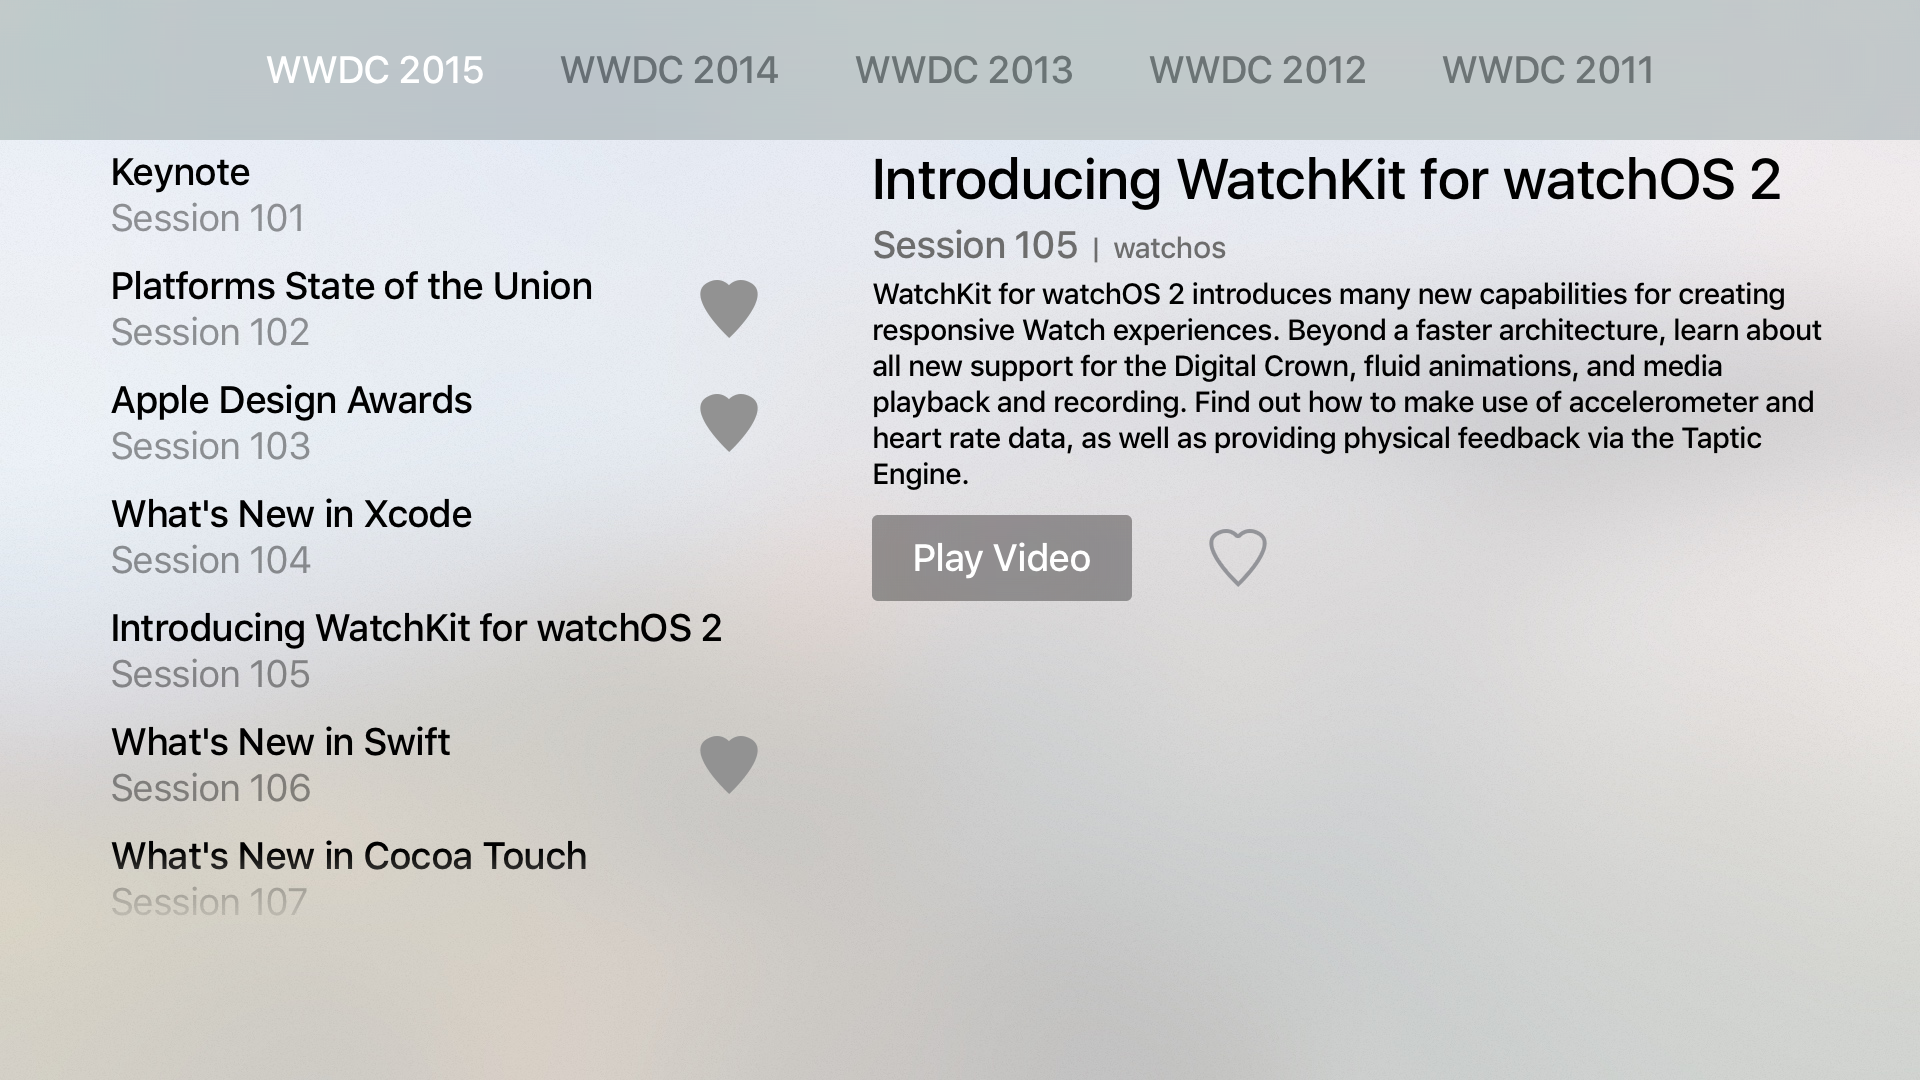
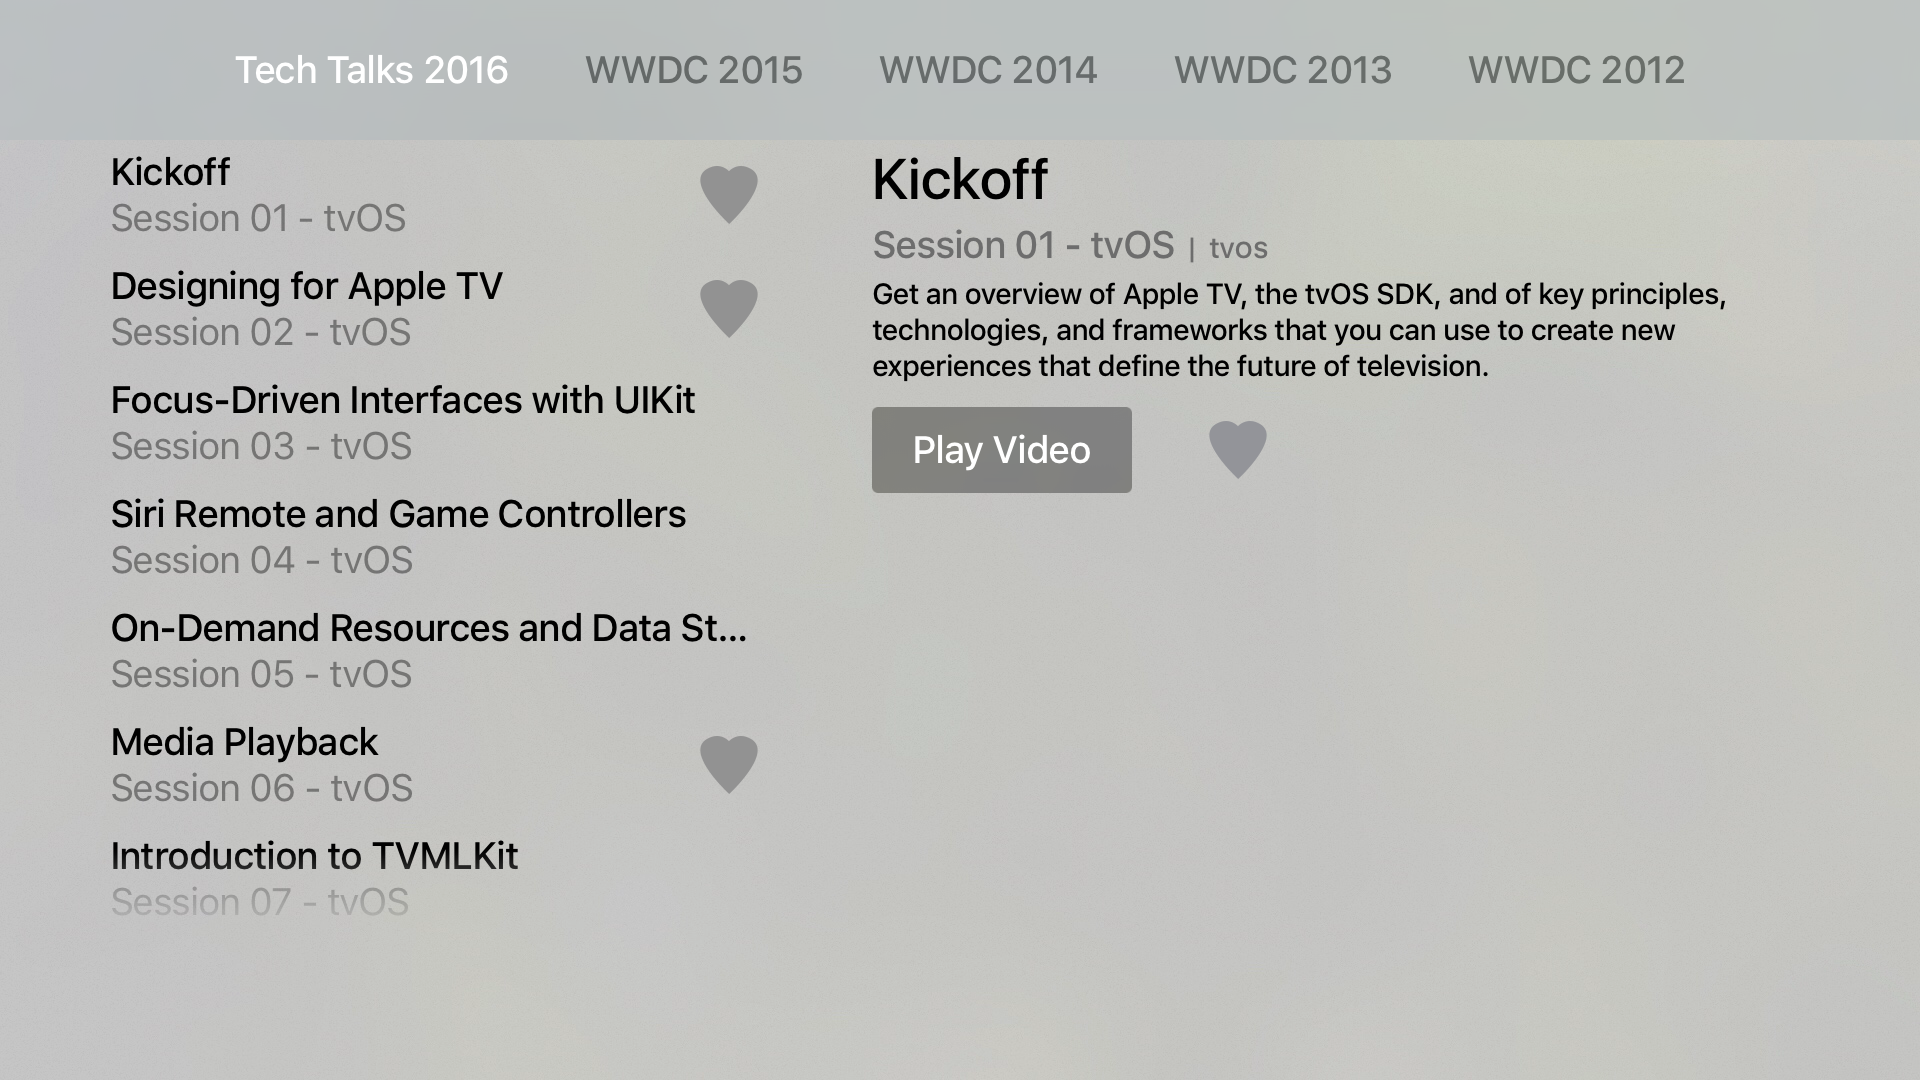
Added Tech Talk 2016 video urls and updated screenshots.

diff --git a/README.md b/README.md
@@ -4,6 +4,7 @@ This project allows you to watch WWDC videos on your Apple TV. It has been built
 You can also favourite videos and only show favourites, Credit [Julio Andres](https://github.com/Julioacarrettoni) for this awesome feature!
 
 The JSON file contains the following conferences
+* Tech Talks 2016
 * WWDC 2015
 * WWDC 2014
 * WWDC 2013
@@ -26,9 +27,3 @@ Apple, the Apple logo and other Apple trademarks, service marks, graphics, and l
 ![Alt text](/WWDC/screen02.png?raw=true "Screenshot 2")
 
 ![Alt text](/WWDC/screen03.png?raw=true "Screenshot 3")
-
-![Alt text](/WWDC/screen04.png?raw=true "Screenshot 4")
-
-![Alt text](/WWDC/screen05.png?raw=true "Screenshot 5")
-
-![Alt text](/WWDC/screen06.png?raw=true "Screenshot 6")
